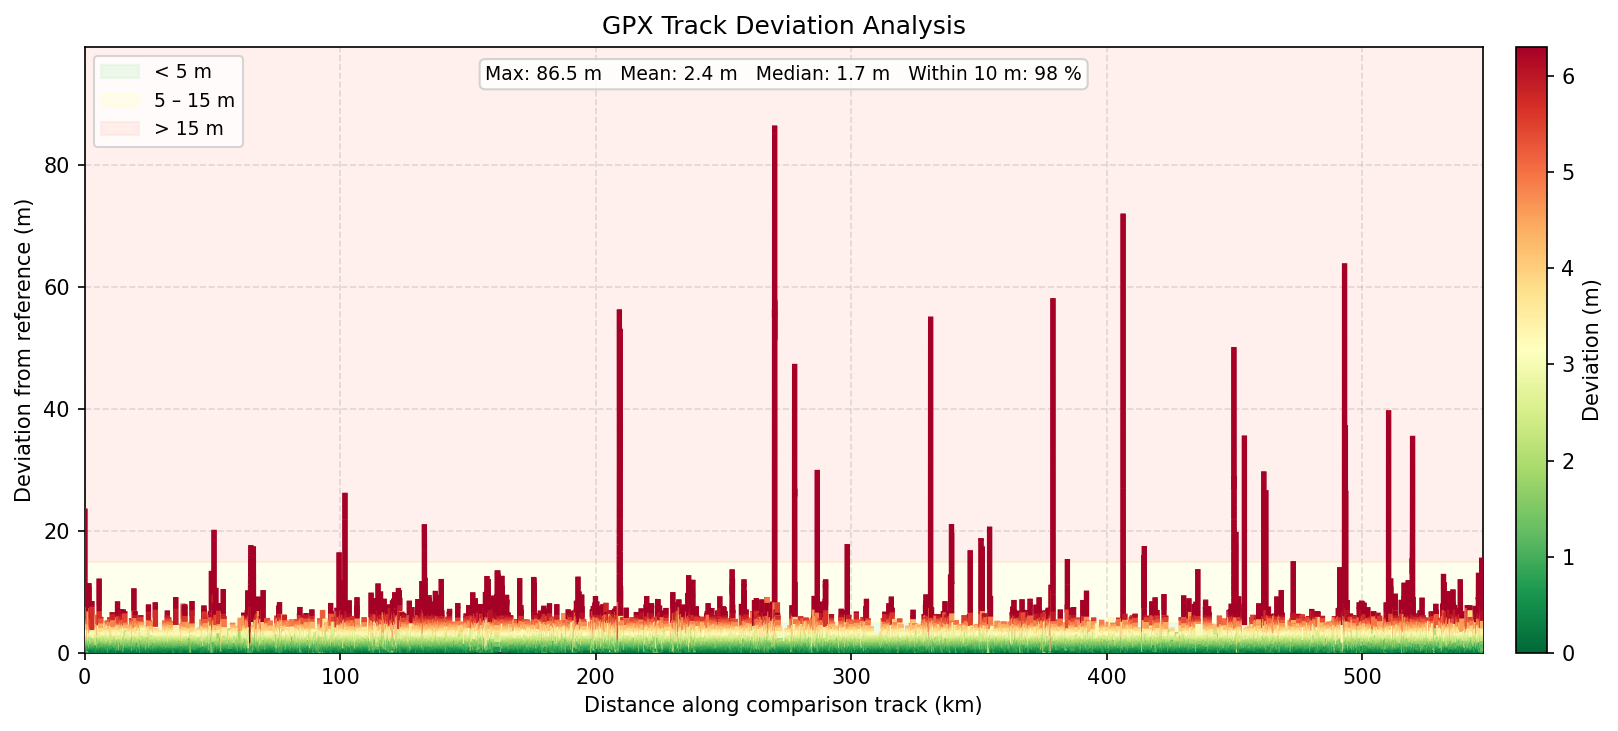
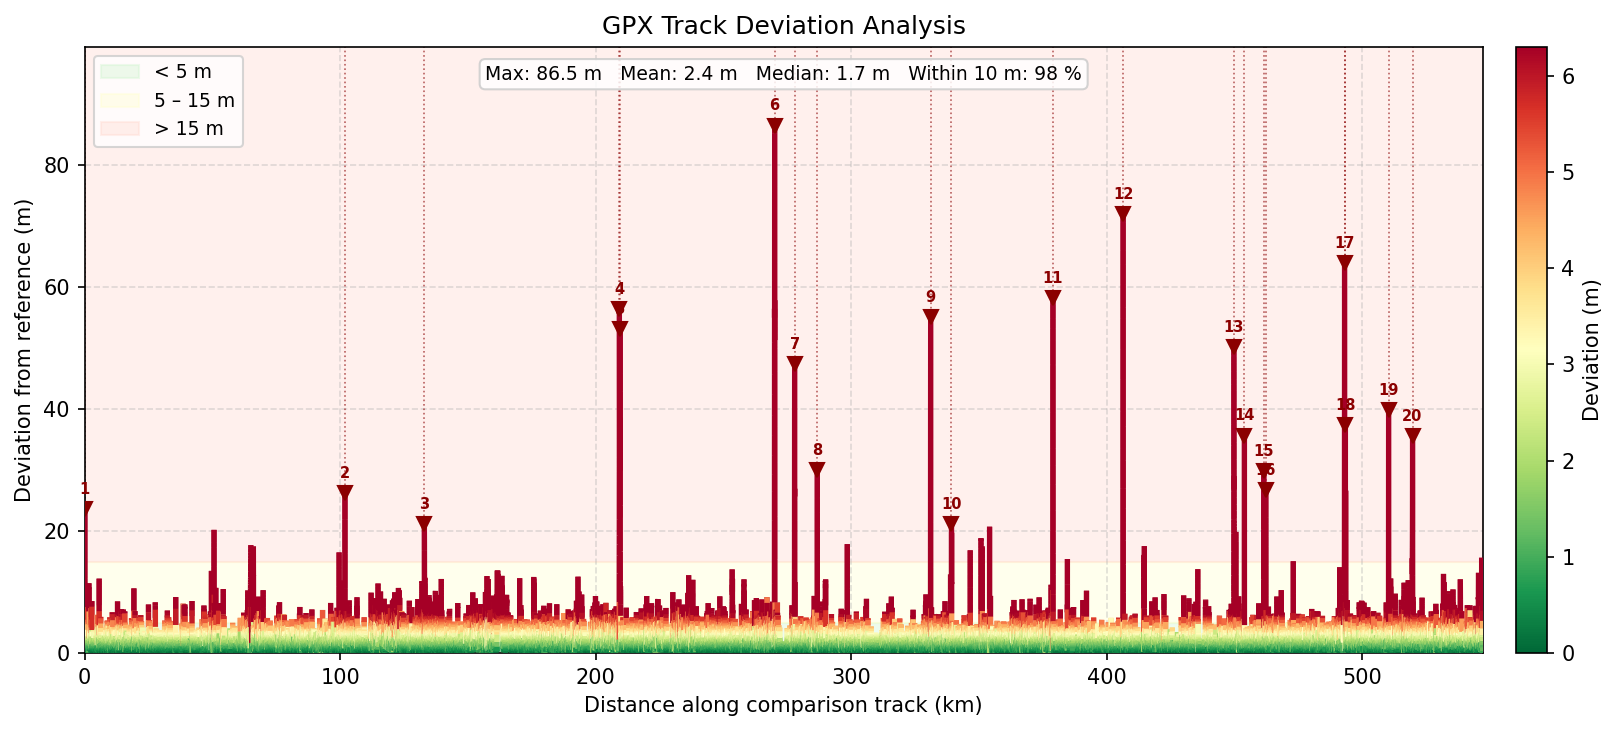
circles to visualize deviations

diff --git a/compare_gpx/visualizer.py b/compare_gpx/visualizer.py
@@ -17,6 +17,55 @@ from .comparator import ComparisonResult
 
 
 # ---------------------------------------------------------------------------
+# Peak detection
+# ---------------------------------------------------------------------------
+
+def _find_deviation_peaks(
+    deviations: np.ndarray,
+    cum_distances_m: np.ndarray,
+    min_separation_m: float = 300.0,
+    max_peaks: int = 20,
+) -> list[int]:
+    """
+    Return indices of local deviation peaks worth marking on the map.
+
+    A candidate is a local maximum above (mean + 1 std).  Candidates are then
+    pruned so no two selected peaks are closer than *min_separation_m* along
+    the track.  At most *max_peaks* are returned, ordered by index.
+    """
+    if len(deviations) < 3:
+        return []
+
+    threshold = float(np.mean(deviations) + np.std(deviations))
+    threshold = max(threshold, float(np.percentile(deviations, 75)))
+
+    # Find local maxima (greater than both immediate neighbours)
+    candidates = []
+    for i in range(1, len(deviations) - 1):
+        if (
+            deviations[i] >= threshold
+            and deviations[i] >= deviations[i - 1]
+            and deviations[i] >= deviations[i + 1]
+        ):
+            candidates.append(i)
+
+    # Sort by deviation descending, then enforce minimum spacing
+    candidates.sort(key=lambda i: deviations[i], reverse=True)
+    selected: list[int] = []
+    for idx in candidates:
+        too_close = any(
+            abs(float(cum_distances_m[idx]) - float(cum_distances_m[s])) < min_separation_m
+            for s in selected
+        )
+        if not too_close:
+            selected.append(idx)
+        if len(selected) >= max_peaks:
+            break
+
+    return sorted(selected)
+
+
+# ---------------------------------------------------------------------------
 # Interactive HTML map  (folium)
 # ---------------------------------------------------------------------------
 
@@ -95,6 +144,34 @@ def visualize_map(
         radius=7, color="black", fill=True, fill_color="red",
         tooltip="Comparison: end",
     ).add_to(m)
+
+    # --- Deviation peak markers ---
+    peak_indices = _find_deviation_peaks(devs, np.array(result.cum_distances_m))
+    peak_group = folium.FeatureGroup(name="Deviation peaks", show=True)
+    for rank, idx in enumerate(peak_indices, start=1):
+        pt  = cmp_pts[idx]
+        dev = devs[idx]
+        dist_km = result.cum_distances_m[idx] / 1000.0
+        folium.CircleMarker(
+            location=[pt.lat, pt.lon],
+            radius=10,
+            color="#8B0000",
+            weight=2,
+            fill=True,
+            fill_color="#FF4444",
+            fill_opacity=0.85,
+            tooltip=f"Peak #{rank}: {dev:.1f} m deviation at {dist_km:.2f} km",
+        ).add_to(peak_group)
+        folium.Marker(
+            location=[pt.lat, pt.lon],
+            icon=folium.DivIcon(
+                html=f'<div style="font-size:9px;font-weight:bold;color:white;'
+                     f'text-align:center;line-height:20px;">{rank}</div>',
+                icon_size=(20, 20),
+                icon_anchor=(10, 10),
+            ),
+        ).add_to(peak_group)
+    peak_group.add_to(m)
 
     # Statistics panel (top-right overlay)
     stats_html = f"""
@@ -177,6 +254,19 @@ def visualize_plot(
     ax.set_title("GPX Track Deviation Analysis")
     ax.legend(loc="upper left", fontsize=9)
     ax.grid(True, linestyle="--", alpha=0.4)
+
+    # Deviation peak markers
+    peak_indices = _find_deviation_peaks(y, np.array(result.cum_distances_m))
+    for rank, idx in enumerate(peak_indices, start=1):
+        px = x[idx]
+        py = y[idx]
+        ax.axvline(px, color="#8B0000", linewidth=0.8, linestyle=":", alpha=0.6, zorder=2)
+        ax.plot(px, py, "v", color="#8B0000", markersize=7, zorder=5)
+        ax.text(
+            px, py + y_top * 0.02,
+            str(rank),
+            ha="center", va="bottom", fontsize=7, fontweight="bold", color="#8B0000",
+        )
 
     stats_text = (
         f"Max: {result.max_deviation:.1f} m   "